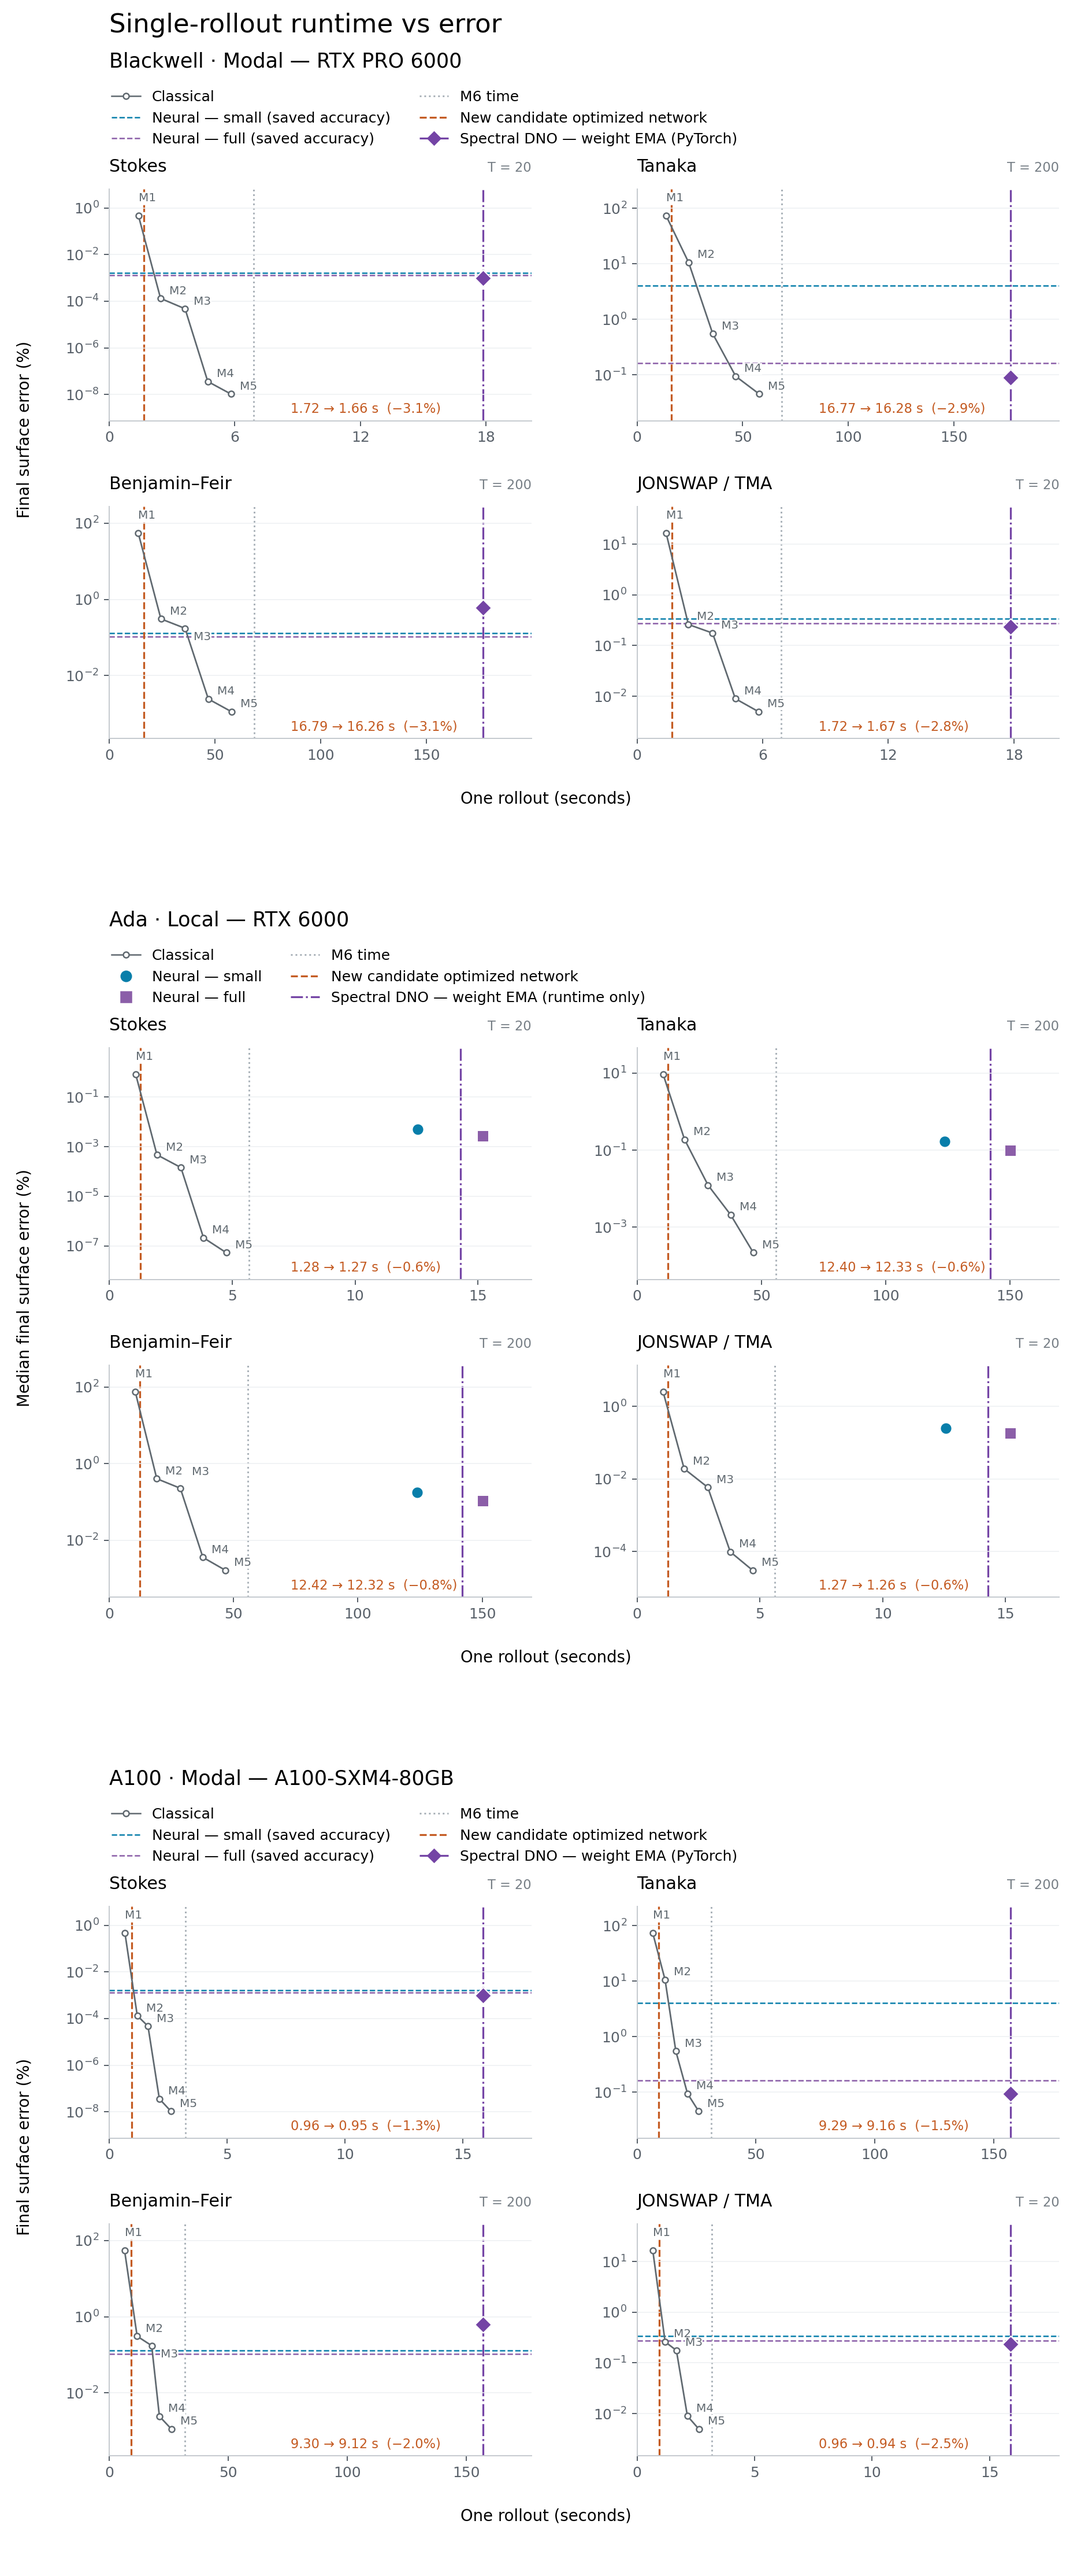
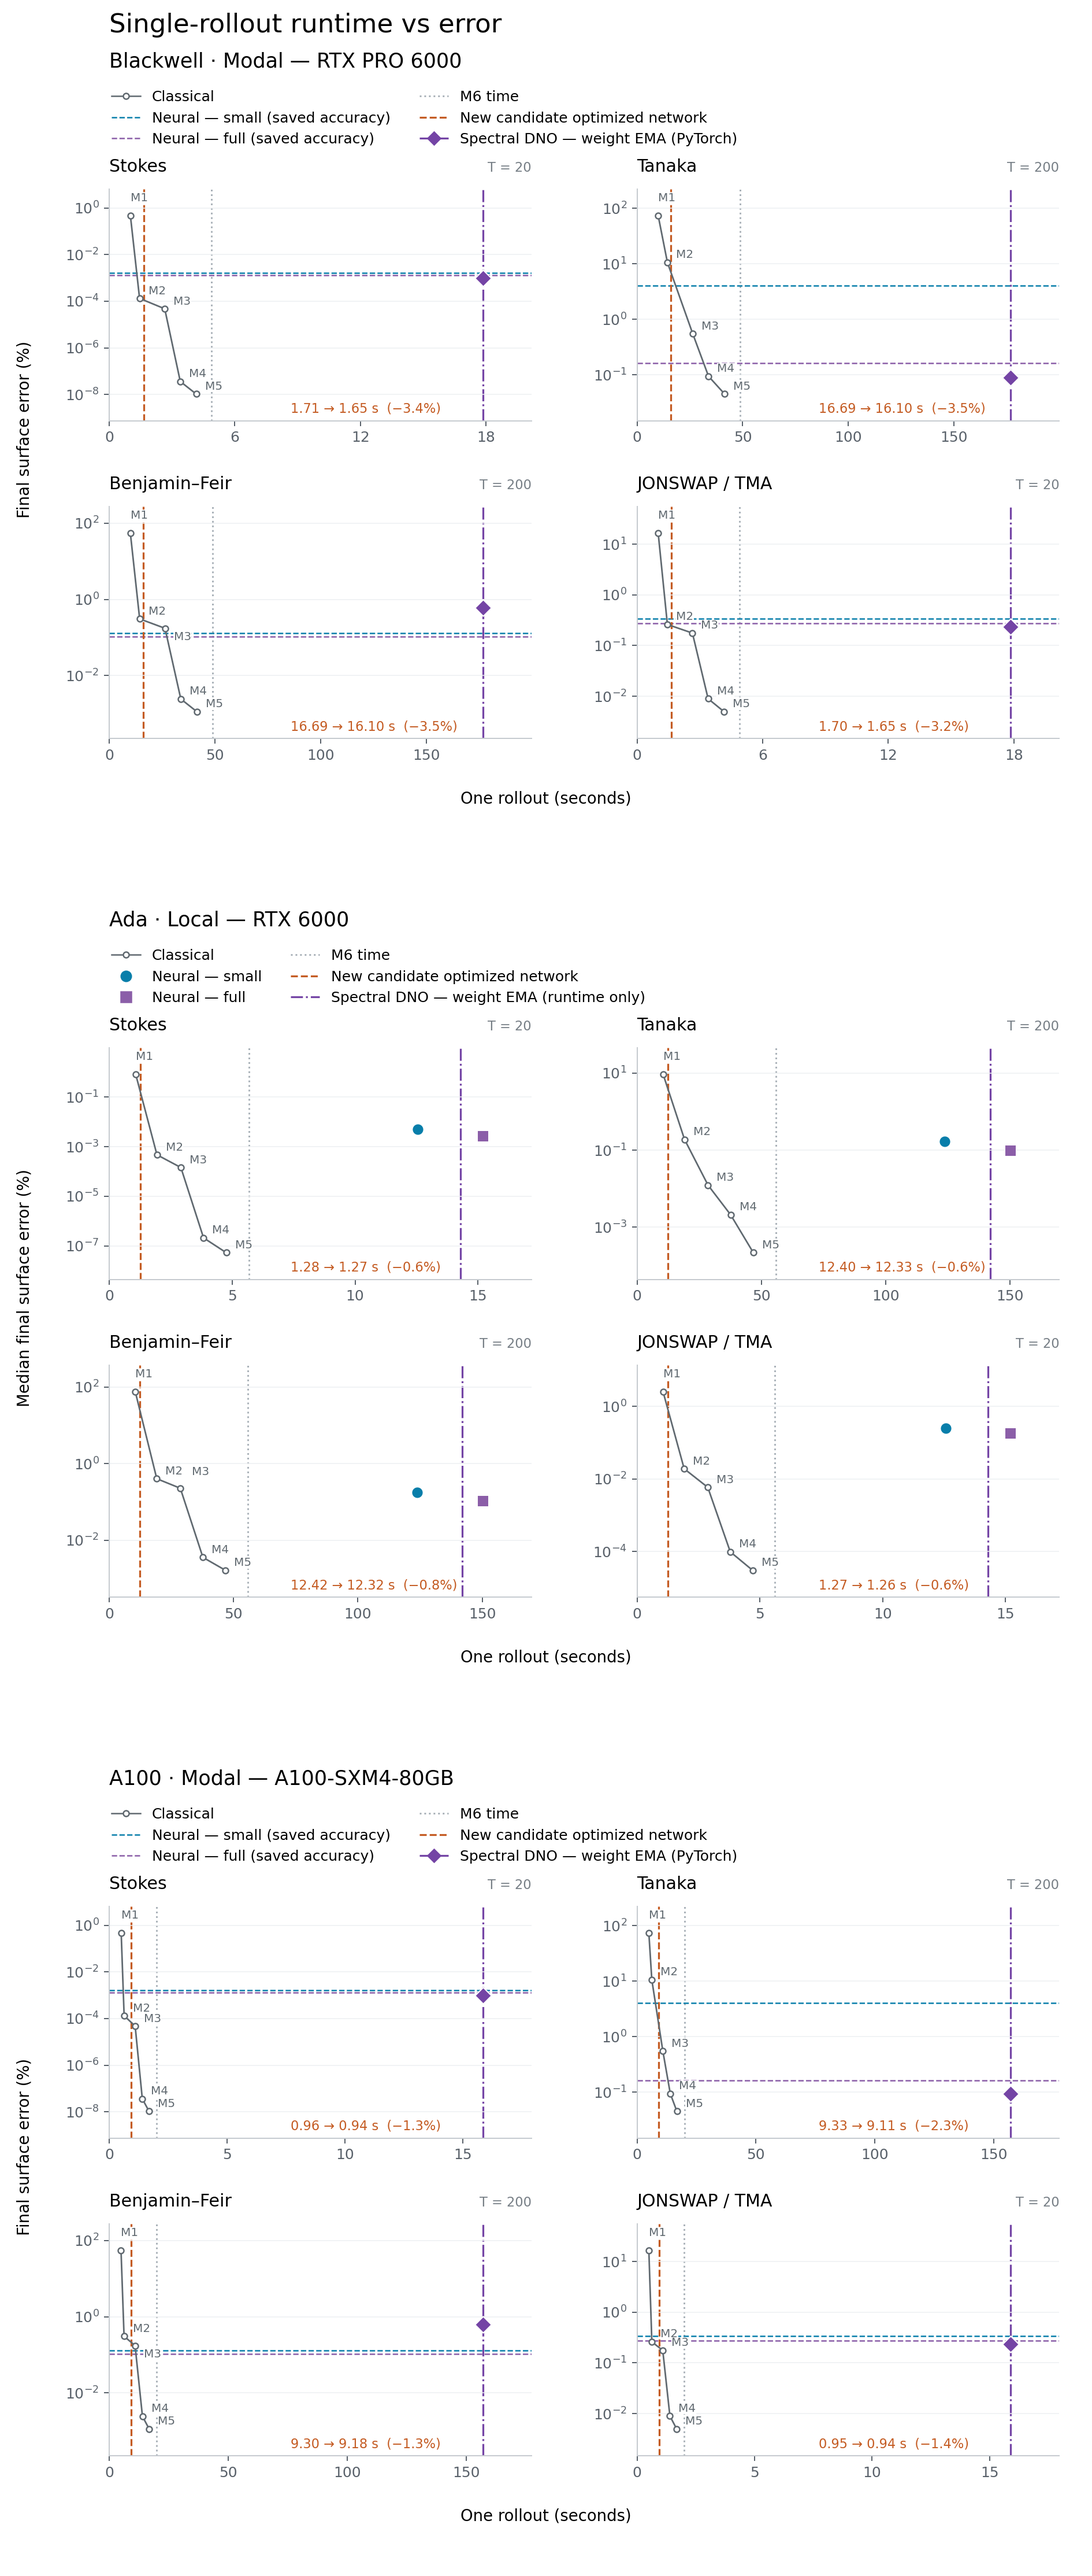
Refresh Figure 12 Blackwell and A100 full-rollout timings

diff --git a/paper-plots/plot_neural_advantage.py b/paper-plots/plot_neural_advantage.py
@@ -41,7 +41,7 @@ def draw_comparison(args: argparse.Namespace, fig: Figure | SubFigure, heading: 
     for path in args.candidate_timings or ():
         for family, result in json.loads(path.read_text())["families"].items():
             candidate["families"].setdefault(family, result)["methods"].update(result["methods"])
-    if args.stack_hardware:
+    if args.stack_hardware and not args.single_case:
         for family, result in candidate["families"].items():
             for method, record in result["methods"].items():
                 classical = method.split("_", 1)[0]
@@ -221,17 +221,18 @@ if __name__ == "__main__":
         modal.single_case = True
         a100 = argparse.Namespace(**vars(modal))
         for config, hardware in ((modal, "blackwell"), (args, "ada"), (a100, "a100")):
-            directory = ROOT / "outputs/spectral_carry_20260927"
-            classical = directory / {
-                "ada": "ada_classical.json", "blackwell": "blackwell_classical/classical.json",
-                "a100": "a100_combined_sxm/classical.json",
+            classical = ROOT / "outputs" / {
+                "ada": "spectral_carry_20260927/ada_classical.json",
+                "blackwell": "classical_figure12_20260927/blackwell/classical.json",
+                "a100": "classical_figure12_20260927/a100_sxm/classical.json",
             }[hardware]
             if config.single_case:
                 config.timings = classical
             config.classical_timings = [classical]
-            config.candidate_timings = [ROOT / "outputs/half_spectrum_20260927" / path for path in {
-                "ada": ("ada_full.json",), "blackwell": ("blackwell_product_confirm/rollouts.json",),
-                "a100": ("a100_sciml_sxm/rollouts.json", "a100_m2_confirm/classical.json"),
+            config.candidate_timings = [ROOT / "outputs" / {
+                "ada": "half_spectrum_20260927/ada_full.json",
+                "blackwell": "classical_figure12_20260927/blackwell/neural.json",
+                "a100": "classical_figure12_20260927/a100_sxm/neural.json",
             }[hardware]]
             config.candidate_method = "fourier_fused_features_product_overlap_spectral_all_boundaries_stages_carry_local"
             config.candidate_previous_method = "fourier_fused_features_overlap_spectral_all_boundaries_stages_carry_local"

diff --git a/experiments/experiments-2026-09-27.md b/experiments/experiments-2026-09-27.md
@@ -26,3 +26,4 @@
 | 2026-09-27 | 20:52 | Gradient-EMA training metrics and loss-curve refresh | The ongoing candidate run had been approaching the old full C27 validation result; refreshing completed-epoch metrics tests whether it has now surpassed that checkpoint. | Regenerated outputs/c27_w320_b4_h80_ema_grad09_20260927/loss-curve.png/.pdf from94 completed epochs with the existing plotting script. Retained old C27 and Leon weight-EMA reference lines; no trainer, hyperparameter or checkpoint changes. | Epoch94 is best for both validation objective and L2:0.0003510049771 and0.0003256165810 (0.03256166%). Old full C27 best:0.0003631457712 /0.0003379997760, so current values are3.343% /3.664% lower. Both first surpassed at epoch87. MB4.17384e-6,TG3.45373e-8,HD diagnostic0.00176270; HD is logged separately from the validation selection objective. Leon L2 reference0.00812488% retained. Plot visually checked. | Refreshed20:47; approximately16:35 elapsed since04:11 launch. Epoch95 was running; local training and cloud benchmarks not interrupted. | KEEP refreshed plot and metrics; continue the existing120-epoch run. This is a checkpoint comparison, not an isolated attribution of improvement to gradient EMA. |
 | 2026-09-27 | 20:53 | A100 combined classical FFT/specialization search completed | Separate native-FFT and M2-algebra gains might combine; product-load fusion and EPT tuning need direct full-rollout evidence against the already optimized native EPT8 baseline. | On one sciml-at-ud A100-SXM4 allocation, screened30 FP64 configurations using full Stokes T20 with three alternating repeats: M1/M2 pad1, M6 pad2, native-all and fused-product variants, low-order specialization, EPT4/8/16. Froze the M2 winner specialized_cufftdx_fp64_p1_e16 before three-repeat full four-family confirmation. Sources: outputs/classical_combinations_20260927/a100_sxm/{m1_stokes_screen,m2_stokes_screen,m6_stokes_screen,m2_rollouts,selection}.json. | All screened and confirmed outputs finite with positive depth. M2 full-family maximum timewise relative eta/xi/Gxi changes[2.513e-14,2.149e-14,4.963e-14] versus prior native EPT8 control; minimum fluid depth0.0500797. Same fixed FP64cuFFTpad2 M6 reference, N1024,dt0.01,GL2 iterations and saved cases. Screening M2 gains have disjoint timing ranges. Independent final audit passed: fixed-M6 reference metrics exactly match the preceding audit across all families; stable-family timing ranges are disjoint and spreads <=0.82%. No reduced precision or changed numerical scheme. | Completed20:52; reviewed20:53. Stable full Stokes screen0.738323→0.626534s(15.14%). Full Tanaka7.344499→6.226727s(15.22%),BF7.329935→6.222417s(15.11%),JON0.742504→0.630828s(15.04%). Stokes confirmation was noisy: control[0.744538,1.059188,1.121707]s,candidate[0.630665,0.795891,0.658101]s; preserve all repeats and do not interpret its37.87% median difference as intrinsic gain. M1 best0.47%,M6 best0.92%, both below the1% screen threshold. | KEEP specialized native M2 as an A100 benchmark improvement; the substantial gain comes from specialization (EPT8 and16 effectively tied in screening), not proven EPT16 superiority. REJECT additional product fusion (slower); retain prior M1/M6 implementation. No per-family setting selection or cross-chip speed claim. Production, training and Figure12 unchanged; no additional A100 run launched to chase noisy Stokes numbers. Modal app ended normally with no funding error or fallback resource use. |
 | 2026-09-27 | 21:06 | Figure12 cloud-only shared classical/neural sweep launch | Updating only M1/M2/M6 would leave stale intermediate-order timings in the frontier; measuring M1–M6 and unchanged neural candidates together on each cloud GPU gives a current comparison without touching the occupied Ada devices. | Extended benchmark_classical.py with a shared sweep: canonical native FP64 M1pad1EPT8,M2specializedpad1EPT16,M3–M6pad2EPT8, same-order cuFFT controls, current/preceding neural candidates, one independent M6 reference per family. All methods share packed boundaries and full-executable warm-up. Approved sciml-at-ud Blackwell and A100-SXM4 jobs launched with the existing82MB code/checkpoint/reference bundle. | CPU entrypoint audit verifies15 compiled/warmed methods, fixedM6 once, six cuFFT controls timed once, six native and two neural variants timed three times in alternating order. Packed-clone short rollout exactly matches original eta/xi/Gxi; same-order callback mapping, FP64 integration, fixed references and unchanged checkpoint/NN construction verified. Ruff/Pyright pass. | Launched21:04–21:05; Blackwell allocated and compiling, A100 queued as of21:06. Full T20/T200 single trajectories, no batched-rollout or extrapolated timings. | RUN cloud sweep before Figure12 render. Ada source paths and artists must remain unchanged; preserve all old trained accuracy references and spectral EMA overlays. No training/production edits or local GPU jobs. Stop both benchmark resources on a Modal funding-limit error; no account or local fallback. |
+| 2026-09-27 | 22:02 | Figure12 Blackwell/A100 full classical and neural refresh | A fair current frontier needs fresh timings for every classical order and both unchanged neural candidates in the same hardware allocation; cloud-only sweeps avoid disturbing local Ada training. | Completed the shared sweep in sciml-at-ud on RTX PRO6000 Blackwell and A100-SXM4-80GB: M1 nativeFP64pad1EPT8, M2 specialized nativeFP64pad1EPT16, M3–M6 nativeFP64pad2EPT8. Same N1024,dt0.01,four GL2 updates,P128 filter,full T20/T200 single trajectories and fixed FP64cuFFTpad2 M6 reference. Three alternating warm repeats per selected method, one timed cuFFT control per order. Saved raw sweep plus classical/neural plot JSON in outputs/classical_figure12_20260927/{blackwell,a100_sxm}; regenerated Figure12 PNG/PDF. | Independent audit: all120 outputs finite with positive depth (minimum0.04998598);240 timed calls with expected settings/counts. Native/control maximum relative eta/xi/Gxi discrepancies[6.289e-13,7.462e-13,8.032e-13]; fixed-M6 metrics exactly match prior results and both chips. Plot-schema conversions exactly match raw results. HEAD-vs-working artist audit: all Ada axes/limits/data/styles/annotations/legends unchanged,48 cloud classical coordinates/time lines and8 candidate lines correct,16 trained-accuracy references and8 spectral EMA overlays retained. Ruff/Pyright/diff checks and visual inspection pass. | A100 completed21:38,Blackwell21:59. Stokes/Tanaka/BF/JON candidate(s): A100[0.943732,9.114725,9.176890,0.940788],Blackwell[1.650614,16.102655,16.103504,1.648486]. M2(s): A100[0.633434,6.229868,6.244096,0.631301],Blackwell[1.450824,14.393444,14.393362,1.451124]. M6(s): A100[2.004757,19.939490,19.903791,2.000561],Blackwell[4.898132,48.862449,48.850387,4.897893]. M2/currentNN/M6 spreads <=0.555% A100 and0.084% Blackwell. | KEEP refreshed cloud Figure12; Ada untouched. Candidate is1.46–1.49x M2 runtime on A100 and1.12–1.14x on Blackwell, but2.12–2.19x/2.97–3.03x faster than M6 respectively. Same-allocation preceding-to-current NN savings1.27–2.28% A100,3.17–3.54% Blackwell; do not attribute cross-allocation shifts to optimization. No candidate accuracy assigned, retraining, production edits or local GPU work. Both apps completed normally without funding error or resource fallback. |

diff --git a/paper-plots/README.md b/paper-plots/README.md
@@ -176,11 +176,15 @@ vertical lines, without assigning accuracy to the one-epoch timing checkpoint.
 The candidate retains the same checkpoint, G0+G1 baselines, cuFFTDx G1 evaluation,
 cached depth multipliers and packed network branches. Its spectral adapter
 removes repeated physical/Fourier round trips and batches independent inverse
-FFTs. Every classical order M1–M6 now receives the shared nonlinear FFT packing.
-Classical DNO products use 2× padding instead of 8×: the implementation projects
-each binary product back to the base modes before reuse, so 2× is sufficient
-for dealiasing at every order. On 48 states across all six orders, the maximum
-2×/8× relative difference is 7.75e-12; see
+FFTs. Every classical order M1–M6 receives the shared nonlinear FFT packing.
+Blackwell and A100 now use the same FP64 cuFFTDx classical implementation:
+M1 uses unpadded DNO products with EPT8, M2 uses the specialized recurrence
+with unpadded products and EPT16, and M3–M6 use 2× padding with EPT8.
+The unpadded M1/M2 products exploit the existing 128-mode state filter.
+Ada retains its previous measurements and 2× DNO padding.
+Each binary product is projected back to the base modes before reuse;
+the earlier 2×/8× check on 48 states across all six orders had maximum
+relative difference 7.75e-12; see
 `outputs/fair_classical_20260925/padding_check.json`. This does not change the
 separate 2× padding in the nonlinear water-wave RHS.
 
@@ -212,29 +216,27 @@ alongside the previous stage pairing and boundary FFT packing. FP64 integration/
 FP32 learned inference, weights and iteration count are unchanged.
 
 Annotations compare against `fourier_fused_features_overlap_spectral_all_boundaries_stages_carry_local`
-in the same three-repeat, four-family full-rollout benchmark. Sources under
-`outputs/half_spectrum_20260927/` are `ada_full.json`,
-`blackwell_product_confirm/rollouts.json`, and `a100_sciml_sxm/rollouts.json`.
-These cloud runs use the approved `sciml-at-ud` workspace.
-Classical M1–M6 retain the unchanged implementation's measurements under
-`outputs/spectral_carry_20260927/`: `ada_classical.json`,
-`blackwell_classical/classical.json`, and `a100_combined_sxm/classical.json`;
-M2 uses the paired three-repeat median on Ada/Blackwell and a separate seven-repeat
-confirmation in `outputs/half_spectrum_20260927/a100_m2_confirm/classical.json`
-on A100, where the initial paired M2 timings were noisy. Only its runtime is
-replaced; accuracy remains referenced to classical M6. Ada paired timings use GPU1.
-The M2 confirmation uses a separate SXM4 allocation. Cloud runtime variation
-between those runs is not an optimization gain; the orange annotations compare
-old/new neural methods measured together in the original allocation.
-Across the four families, product fusion saves another 0.60–0.75% on Ada,
-2.83–3.13% on Blackwell, and 1.34–2.48% on A100 against the preceding candidate.
+in the same three-repeat, four-family full-rollout benchmark. Fresh cloud
+measurements are under `outputs/classical_figure12_20260927/{blackwell,a100_sxm}/`:
+`classical.json` contains M1–M6 and `neural.json` contains the current and
+preceding candidates. Each hardware comparison uses one `sciml-at-ud`
+allocation, with three alternating full-rollout repeats after full-executable
+warm-up. Classical and neural runs retain the same integration settings and
+packed boundaries; the neural checkpoint and inference path are unchanged.
+One warmed and timed cuFFT control per order checks the selected native
+implementation. Classical errors remain referenced to the cached M6 trajectory.
+Ada is unchanged: classical measurements come from
+`outputs/spectral_carry_20260927/ada_classical.json`, and the candidate and paired
+M2 timings come from `outputs/half_spectrum_20260927/ada_full.json` on GPU1.
+The orange annotations use only paired old/new neural timings, not differences
+between allocations. Product fusion saves 0.60–0.75% on the retained Ada run.
 Balanced feature stores showed no useful additional gain. Half-spectrum GL2
 carry was also tested for both methods and rejected; the selected neural and
 classical paths both retain full-spectrum carry.
 
 Product fusion passes the 48-state forward checks with maximum relative
 difference 2.01e-9, but long trajectories are not bitwise equivalent. For
-Benjamin–Feir, terminal surface error against M6 changes from 1.022% to 1.010%
+Benjamin–Feir in the earlier product-fusion runs, terminal surface error against M6 changes from 1.022% to 1.010%
 on Ada/A100 and from 0.888% to 0.976% on Blackwell. The largest relative saved
 surface difference against the preceding candidate is 0.001223 (Blackwell BF).
 These remain runtime-only candidate lines. Trained-model
@@ -316,7 +318,19 @@ only as a benchmark option. Both are isolated in `scripts/benchmark_surrogate_rh
 and selected by the rollout timer; production trainers and checkpoints are
 untouched. Search results, numerical checks and merge decisions are recorded
 in `notes/dno_profile_20260924.md` and the September 25–26 logs under `experiments/`.
-This update does not regenerate figure 11, the manuscript or the ZIP. Reproduce with:
+This update does not regenerate figure 11, the manuscript or the ZIP. After
+building cuFFTDx for the selected cloud GPU, reproduce the shared benchmark with:
+
+```sh
+XLA_FLAGS=--xla_gpu_experimental_stream_annotation=true \
+  UV_CACHE_DIR=/tmp/codex-uv-cache uv run --no-sync scripts/benchmark_classical.py \
+  --sweep --rollouts --repeats 3 \
+  --candidate-run outputs/c27_w320_b4_h80_tanaka_hard128_20260924 \
+  --output outputs/classical_sweep/sweep.json
+```
+
+The cloud runner extracts the selected records into `classical.json` and
+`neural.json` for each hardware section. Render the figure with:
 
 ```sh
 UV_CACHE_DIR=/tmp/codex-uv-cache uv run --no-sync paper-plots/plot_neural_advantage.py \

diff --git a/EXPERIMENTS.md b/EXPERIMENTS.md
@@ -33,11 +33,11 @@ could not be recovered at all are in
 
 ## Dated logs
 
-79 files, 1125 rows.
+79 files, 1126 rows.
 
 | Date | Rows | File | Size |
 | --- | --- | --- | --- |
-| 2026-09-27 | 26 | [`experiments/experiments-2026-09-27.md`](experiments/experiments-2026-09-27.md) | 45 KB |
+| 2026-09-27 | 27 | [`experiments/experiments-2026-09-27.md`](experiments/experiments-2026-09-27.md) | 48 KB |
 | 2026-09-26 | 19 | [`experiments/experiments-2026-09-26.md`](experiments/experiments-2026-09-26.md) | 30 KB |
 | 2026-09-25 | 19 | [`experiments/experiments-2026-09-25.md`](experiments/experiments-2026-09-25.md) | 28 KB |
 | 2026-09-24 | 19 | [`experiments/experiments-2026-09-24.md`](experiments/experiments-2026-09-24.md) | 33 KB |
